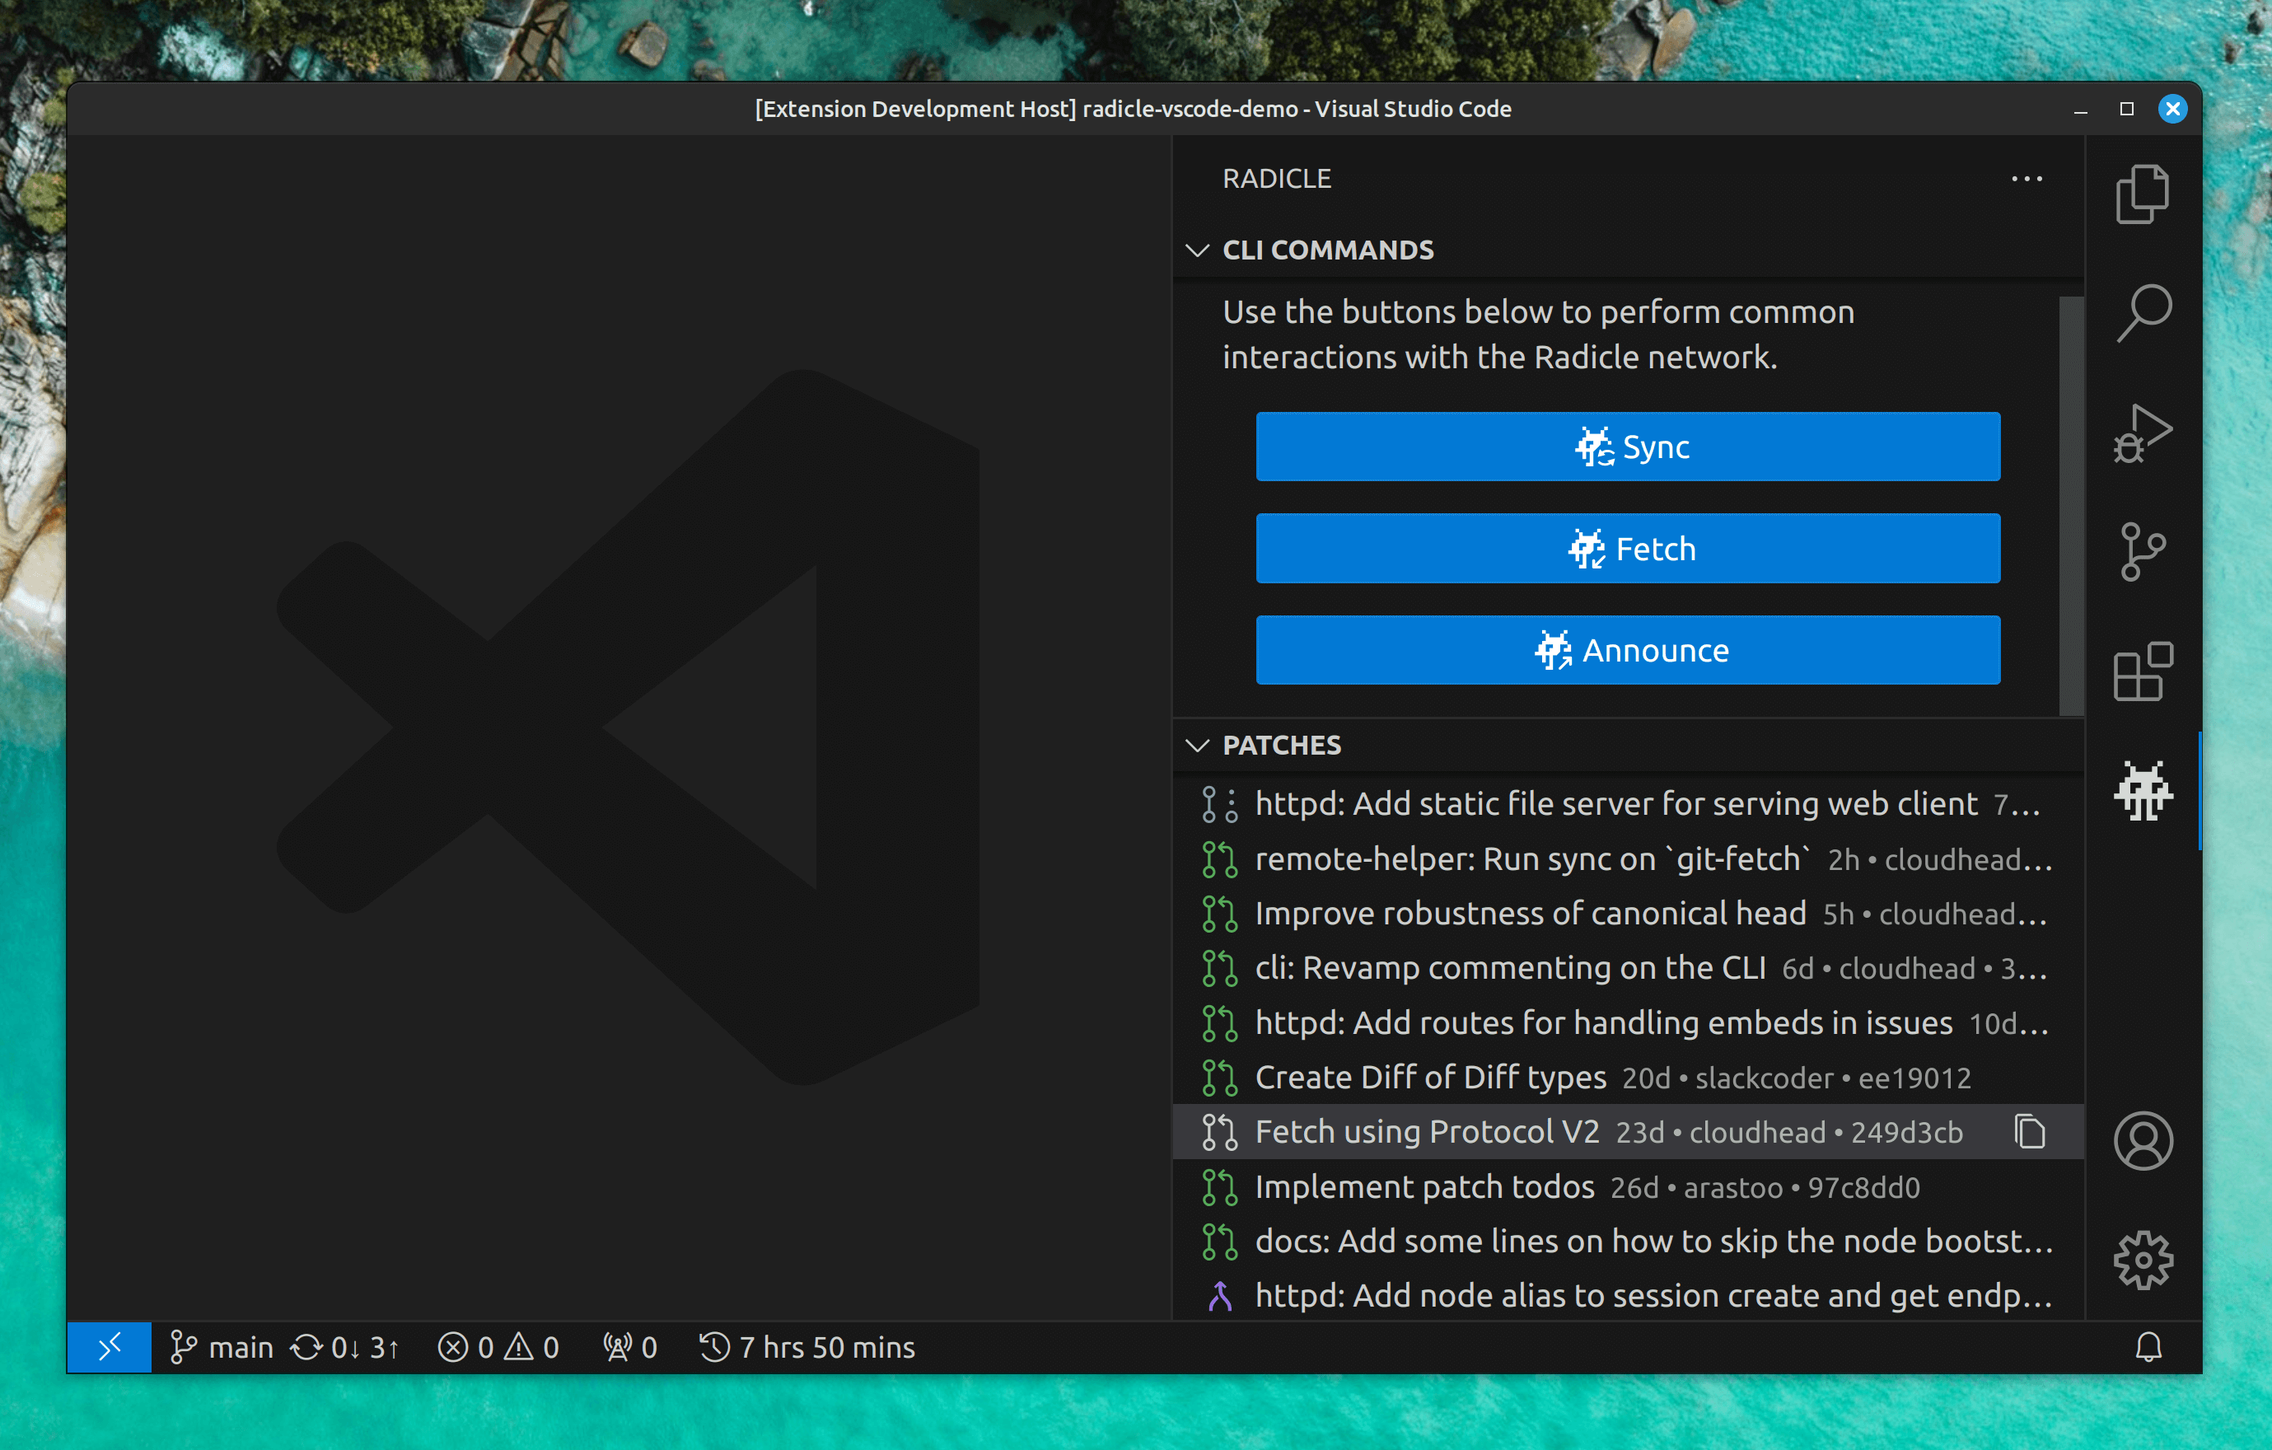
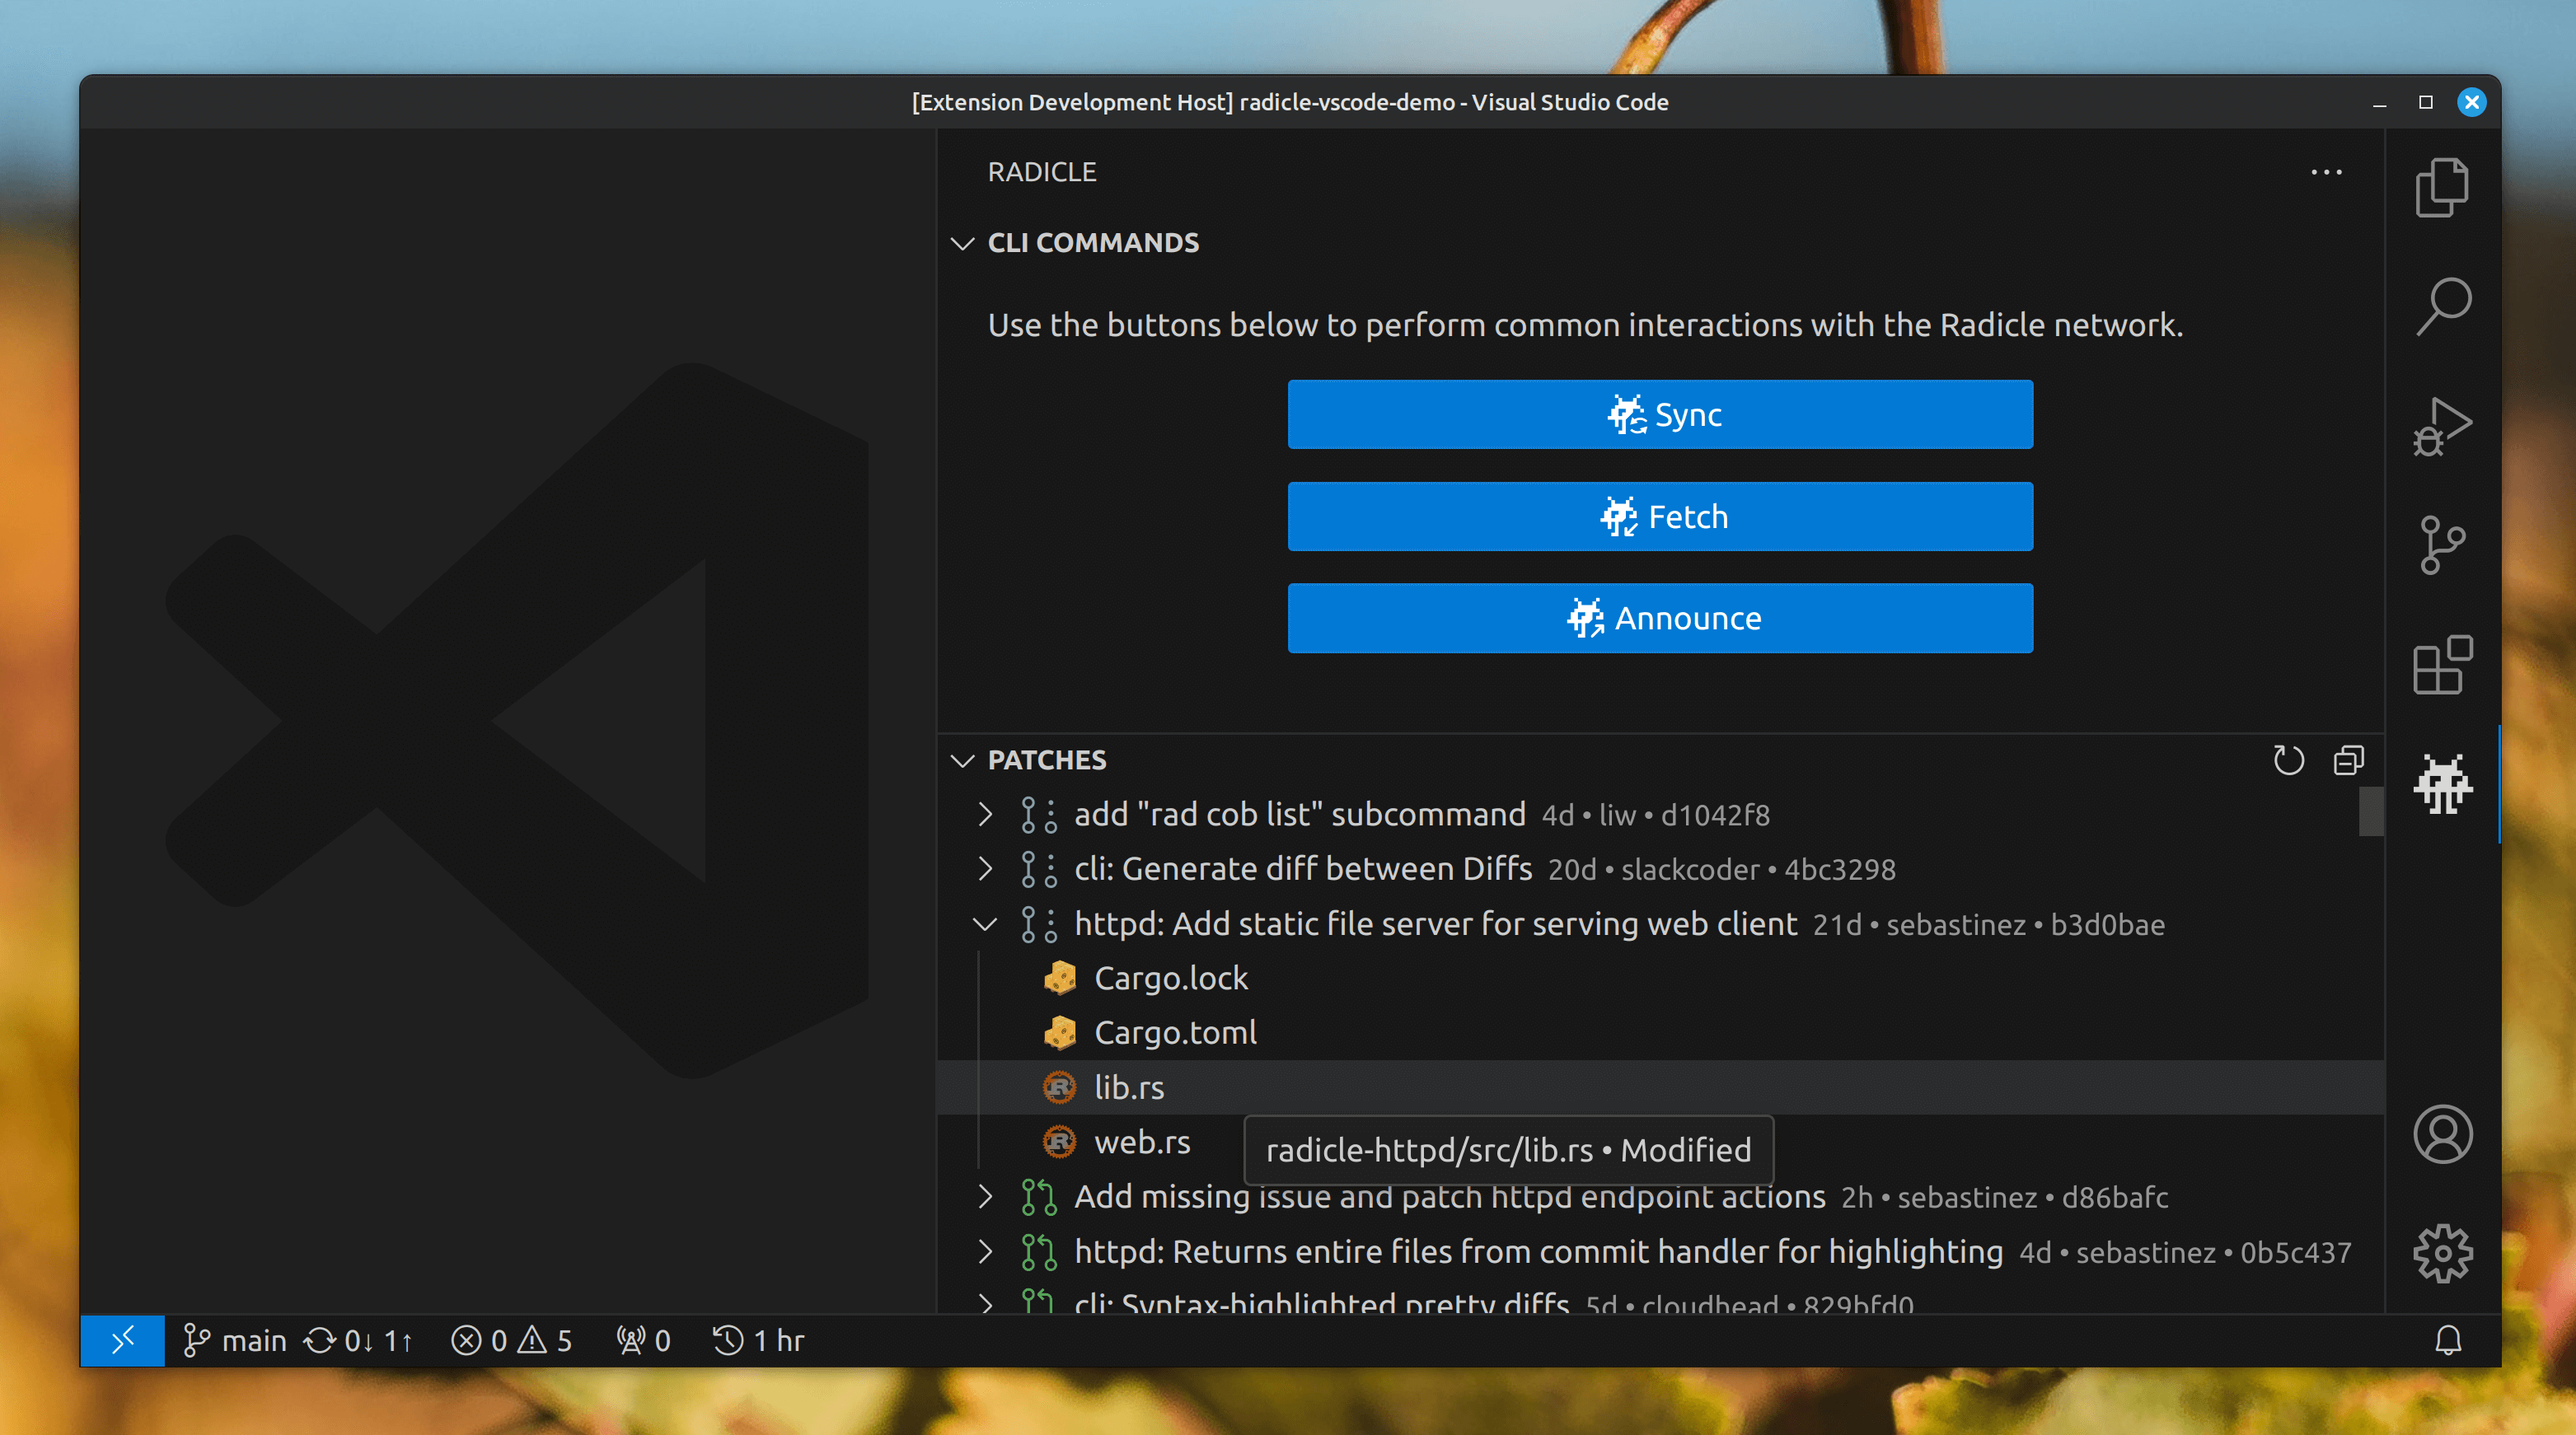
docs: clean-up and prepare for release

Changed region(s): [[0.0, 0.0, 1.0, 1.0], [0.3742, 0.155, 0.4677, 0.186]]

diff --git a/src/ux/patches.ts b/src/ux/patches.ts
@@ -14,45 +14,11 @@ import {
 } from 'vscode'
 import TimeAgo, { type FormatStyleName } from 'javascript-time-ago'
 import en from 'javascript-time-ago/locale/en'
-import { fetchFromHttpd } from '../helpers'
+import { fetchFromHttpd, getRepoId } from '../helpers'
 import { type Patch, type Unarray, isPatch } from '../types'
 import { assertUnreachable, capitalizeFirstLetter, log, shortenHash } from '../utils'
 
 const bullet = '•'
-
-// DONE tasks
-// - each Patch item in the Patches view can now be expanded
-//   - shows a sub-list of the files changed in the latest Revision of that Patch when compared to the Revision base commit
-//   - the files are sorted by directory first and then by filename
-//   - a hint to the user as to why there are no filechanges, if that's the case
-// - each filechange item in the list
-//   - shows the filename
-//   - shows the path to the filename if that Patch contains multiple changed files with the same name
-//   - automatically uses the File Icon matching that file according to the user's selected File Icon Theme set in VS Code settings (if any)
-// - on filechange item hover a tooltip is shown
-//   - with the relative path starting from project root (including the filename)
-//   - with the kind of change that this file had (e.g. `added`, `modified`, `moved`, etc)
-//   - if the file was `moved` or `copied` then both the `oldPath` and `newPath` are shown with an arrow between them
-// - on filechange item left-click an editor opens showing the diff between the file's version in the latest revision of that Patch and the version in that revision's base.
-// - on filechange item right-click the context menu has
-//   - a command to "Open Original Version" available only to items with filechange kinds "deleted" or "modified"
-//   - a command to "Open Changed Version" available only to items with filechange kinds "added" or "modified"
-// - the Patches view title-bar has a new "Collapse All Items in Patches View" button to the right of the refresh button
-// - the Command Palette has a new command to "Collapse All Items in Patches View"
-// OTHER DONE tasks
-// - copy of all commands is now (consistently) in Title Case as per the VS Code UX Guidelines
-
-// TODO tasks
-// TODO: maninak update readme and changelog regarding file diff
-// TODO: maninak check what happens when diffing non-text file like images
-// TODO: maninak as first treeItem if an expanded patch show files changed `+${A} ~${M} -${D}` (colored) and/or lines changed
-// TODO: maninak show lines added | removed on changefile item tooltip
-// TODO: maninak show M or A or D (colored!) at the right-most side of each file treeitem signifying modified, added or deleted
-// TODO: maninak add checkbox next to each item which on hover shows tooltip "Mark file as viewed". A check should be keyed to each `revision.id+file.resolvedPath`. Sync state across vscode instances. Add a config to toggle showing it.
-// TODO: maninak prefix each Patch item description with `✓` (or put on the far right as icon) if branch is checked out and in tooltip with `(✓ Current Branch)`.
-// TODO: maninak open the diff editor using the actual path and in unchangeable read-only (opening a diff of an old commit via the native git plugin shows "Editor is read-only because the file system of the file is read-only." which means we could perhaps have the files in-memory instead of using temp files??! Maybe this is related https://github.com/microsoft/vscode-extension-samples/tree/69333818a412353487f0f445a80a36dcb7b6c2ab/source-control-sample or maybe a URI with custom scheme https://code.visualstudio.com/api/extension-guides/virtual-documents#textdocumentcontentprovider) or by making a Repository https://stackoverflow.com/questions/54952188/showing-differences-from-vs-code-source-control-extension/54986747#54986747
-// TODO: maninak show Gravatar or stable randomly generated avatar (use the one from `radilce-interface`) on Patch list item tooltip. Prefix PR name with status e.g. `Draft •` or `[Draft]`. Add a new `radicle.patches.icon` config with options [`Status icon`, `Gr(avatar)`, `None`] https://github.com/microsoft/vscode-pull-request-github/blob/d53cc2e3f22d47cc009a686dc56f1827dda4e897/src/view/treeNodes/pullRequestNode.ts#L315
-// TODO: maninak make a new ticket to create a new expandable level of all Revisions inside a Patch and outside the files list. Expanding the Patch should auto-expand the most recent revision. Expanding a revision should collapse all other revisions of a Patch. On right-click there should be an option to "Open Diff since Revision..." and show a list of all revisions of this Patch for the user to select one. On selection open diff with that as base On right-click there should be an option to "Open Changes since Commit..." and show a selection list of all commits on that revisions up until one marked "base". On selection open diff with that as base. If both of the above are implemented, then make a sublist "Open Changes since" with the above as sub-items.
 
 export interface FilechangeNode {
   filename: string
@@ -83,7 +49,7 @@ export const patchesTreeDataProvider: TreeDataProvider<string | Patch | Filechan
         label: elem.title,
         description: getPatchTreeItemDescription(elem, edgeRevisions),
         tooltip: getPatchTreeItemTooltip(elem, edgeRevisions),
-        collapsibleState: TreeItemCollapsibleState.Collapsed, // TODO: maninak restore to `Collapsed` by default except if branch is checked out
+        collapsibleState: TreeItemCollapsibleState.Collapsed,
       }
 
       return treeItem
@@ -93,27 +59,20 @@ export const patchesTreeDataProvider: TreeDataProvider<string | Patch | Filechan
       // We can't put the code to construct the filechange TreeItem inside getTreeItem()
       // because we need to perform operations on the whole collection (e.g. sort, search for
       // and handle items with same filename differently, etc). Thus we define a "constructor"
-      // inside getChildren() and call it in here.
+      // inside getChildren() and call that in here.
       return elem.getTreeItem()
     }
   },
   getChildren: async (elem) => {
-    const rid = 'rad:z3gqcJUoA1n9HaHKufZs5FCSGazv5' // getRepoId()  // TODO: maninak restore
-    // TODO: maninak validate and clean-up this duplicated `if (!rid)` check
+    const rid = getRepoId()
     if (!rid) {
-      // This branch should theoretically never be reached,
+      // This trap should theoretically never be reached,
       // because `patches.view` has `"when": "radicle.isRadInitialized"`.
       return ['Unable to fetch Radicle Patches for non-Radicle-initialized workspace']
     }
 
     // get children of root
     if (!elem) {
-      if (!rid) {
-        // this branch should theoretically never be reached
-        // because `patches.view` has `"when": "radicle.isRadInitialized"`
-        return ['Unable to fetch Radicle Patches for Radicle-initialized workspace']
-      }
-
       // TODO: refactor to make only a single request when https://radicle.zulipchat.com/#narrow/stream/369873-support/topic/fetch.20all.20patches.20in.20one.20req is resolved
       const responses = await Promise.all([
         fetchFromHttpd(`/projects/${rid}/patches`, 'GET', undefined, {

diff --git a/CHANGELOG.md b/CHANGELOG.md
@@ -1,18 +1,23 @@
 # Radicle VS Code Extension Change Log
 
-## _(WIP, yet unreleased version)_
+## **v0.3.0** (Oct 2nd, 2023)
 
 ### ✨ Highlights
 
 - New Patches view
 
-    <img alt="screenshot of Radicle Patches view" src="./assets/for-md/patches-huge.png" height="350">
+    <img alt="screenshot of Radicle Patches view" src="./assets/for-md/patches-diff.png" style="height: 350px; width: auto;">
 
 ### 🚀 Enhancements
 
 - **patches**: show new view in the sidebar listing all Radicle Patches, including a tooltip with more info on hover and the ability to easily copy the Patch identifier ([#43](https://github.com/cytechmobile/radicle-vscode-extension/issues/43))
-- **patches**:  each item in the list of Radicle Patches can be expanded to show a sub-list of files changed. If multiple files have the same filename, their directory URL will be additionally shown as the item's description. On hover a tooltip shows the relative URL of the file in the repo, and the kind of change it had. A left click on a filechange item will open a diff between the original and patched file versions. A right-click allows opening either the original or changed file versions (as applicable) without the diffing visual noise.
+- **patches**:  each item in the list of Radicle Patches can be expanded to show a sub-list of files changed.  ([#46](https://github.com/cytechmobile/radicle-vscode-extension/issues/46))
+  - If multiple items have the same filename, their directory URL will be additionally shown as the item's description.
+  - On hover, a tooltip shows the relative URL of the file in the repo, and the kind of change it had.
+  - A left click on a filechange item will open a diff between the original and patched file versions.
+  - A right-click allows opening either the original or changed file versions (as applicable) without the diffing visual noise.
 - **commands**: new VS Code command to refresh the list of Radicle Patches ([#43](https://github.com/cytechmobile/radicle-vscode-extension/issues/43))
+- **commands**: new VS Code command to collapse all items in the list of Radicle Patches ([#46](https://github.com/cytechmobile/radicle-vscode-extension/issues/46))
 - **ux:** convert existing flows with series of user input steps into a bespoke, cohesive experience indicating total step count and completion progress, allow editing of already submitted answers of the same flow, as well reveal-toggling of typed-in passwords, among other improvements ([#67](https://github.com/cytechmobile/radicle-vscode-extension/issues/67))
 - **auth:** additionally show the alias associated with a Radicle identitifier whenever showing the latter ([#67](https://github.com/cytechmobile/radicle-vscode-extension/issues/67))
 

diff --git a/README.md b/README.md
@@ -41,7 +41,7 @@ A VS Code extension bringing support for the Radicle network to your IDE.
 
 ### Patches View
 
-<img alt="screenshot of Radicle Patches view" src="./assets/for-md/patches-huge.png" height="500">
+<img alt="screenshot of Radicle Patches view" src="./assets/for-md/patches-diff.png"  style="height: 500px; width: auto;">
 
 ### Integrated Authentication
 
@@ -87,7 +87,7 @@ A VS Code extension bringing support for the Radicle network to your IDE.
 
 ### Troubleshooting Flow
 
-<img src="./assets/for-md/troubleshoot.png" alt="Troubleshooting Flow" style="max-height:150px;" height="150">
+<img src="./assets/for-md/troubleshoot.png" alt="Troubleshooting Flow" style="max-height:150px;"  style="height: 150px; width: auto;">
 
 ### Configurable
 
